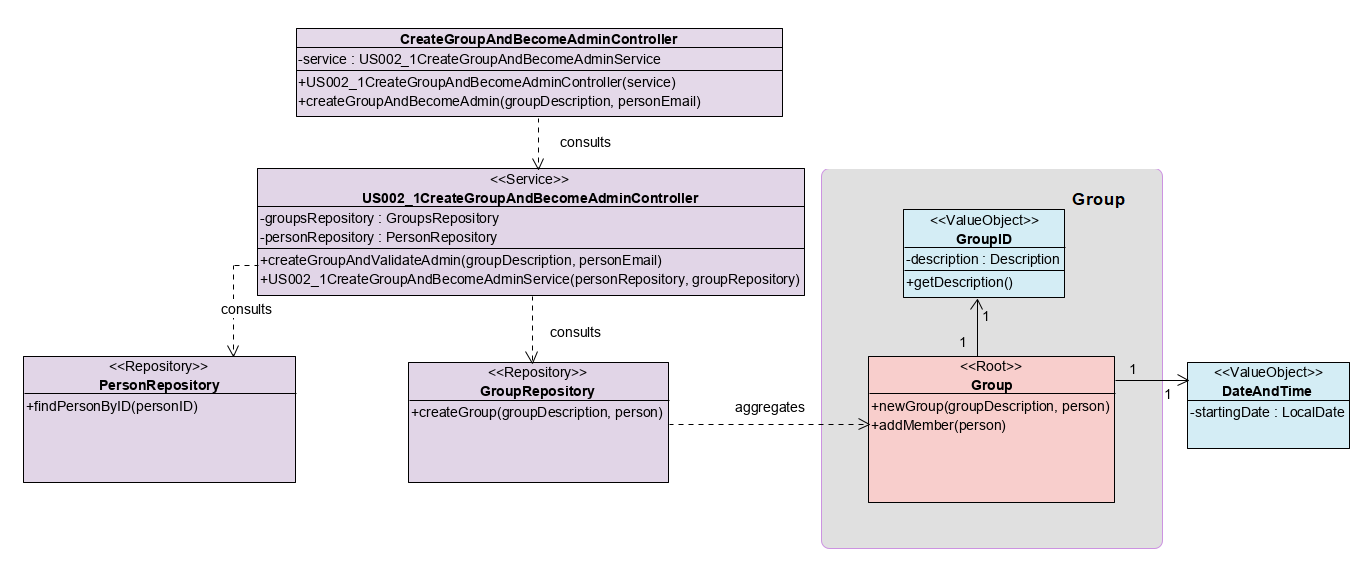
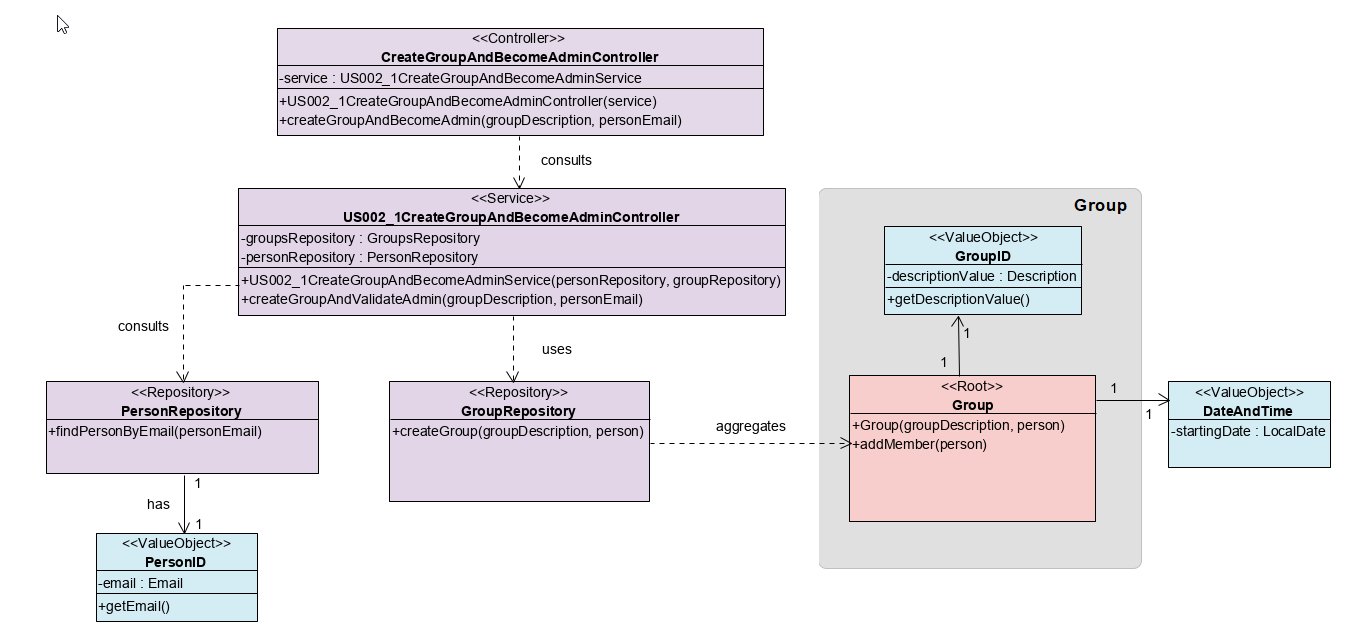
ref #718 update class & sequence diagrams

diff --git a/src/test/java/switch2019/project/controllers/US002_1CreateGroupAndBecomeAdminControllerTest.java b/src/test/java/switch2019/project/controllers/US002_1CreateGroupAndBecomeAdminControllerTest.java
@@ -17,6 +17,8 @@ import static org.junit.jupiter.api.Assertions.*;
 class US002_1CreateGroupAndBecomeAdminControllerTest {
 
     private static GroupsRepository groupsRepository;
+    private static PersonRepository personRepository;
+    private static US002_1CreateGroupAndBecomeAdminService service;
     private static US002_1CreateGroupAndBecomeAdminController controller;
 
 
@@ -28,13 +30,13 @@ class US002_1CreateGroupAndBecomeAdminControllerTest {
     @BeforeEach
     void setUpUniverse() {
         groupsRepository = new GroupsRepository();
-        PersonRepository personRepository = new PersonRepository();
+        personRepository = new PersonRepository();
 
         personRepository.createPerson("Alexandre", new DateAndTime(1996, 3, 4),
                 new Address("Porto"), new Address("Porto",
                         "Rua de Santana", "4465-740"), new Email("1234@isep.pt"));
 
-        US002_1CreateGroupAndBecomeAdminService service = new US002_1CreateGroupAndBecomeAdminService(groupsRepository, personRepository);
+        service = new US002_1CreateGroupAndBecomeAdminService(groupsRepository, personRepository);
         controller = new US002_1CreateGroupAndBecomeAdminController(service);
     }
 
@@ -57,30 +59,30 @@ class US002_1CreateGroupAndBecomeAdminControllerTest {
 
 
         //Act
-        boolean result = controller.createGroupAndBecomeAdmin(groupDescription, email);
+        boolean isGroupCreatedAndAdminSet = controller.createGroupAndBecomeAdmin(groupDescription, email);
         boolean isAdmin = groupsRepository.findGroupByDescription(new Description(
                 "Bashtards")).isGroupAdmin(personID);
 
         //Assert
-        assertTrue(result && isAdmin);
+        assertTrue(isGroupCreatedAndAdminSet && isAdmin);
     }
 
     @Test
-    @DisplayName("PersonID non existing")
-    void createGroupAndBecomeAdminNoPersonID() {
+    @DisplayName("Email non existing")
+    void createGroupAndBecomeAdminNoEmail() {
 
         //Arrange
         String groupDescription = "Bashtards";
-        String personID = "12345@isep.pt";
+        String email = "12345@isep.pt";
 
         //Act
         try {
-            controller.createGroupAndBecomeAdmin(groupDescription, personID);
+            controller.createGroupAndBecomeAdmin(groupDescription, email);
         }
 
         //Assert
         catch (IllegalArgumentException e) {
-            assertEquals("No person found with that ID.", e.getMessage());
+            assertEquals("No person found with that email.", e.getMessage());
         }
 
     }
@@ -91,12 +93,12 @@ class US002_1CreateGroupAndBecomeAdminControllerTest {
 
         //Arrange
         String groupDescription = "Bashtards";
-        String personID = "1234@isep.pt";
-        controller.createGroupAndBecomeAdmin(groupDescription, personID);
+        String email = "1234@isep.pt";
+        controller.createGroupAndBecomeAdmin(groupDescription, email);
 
         //Act
         try {
-           controller.createGroupAndBecomeAdmin(groupDescription, personID);
+           controller.createGroupAndBecomeAdmin(groupDescription, email);
         }
         catch (IllegalArgumentException ex) {
             assertEquals("This Group Description already exists.", ex.getMessage());

diff --git a/src/main/java/switch2019/project/services/US002_1CreateGroupAndBecomeAdminService.java b/src/main/java/switch2019/project/services/US002_1CreateGroupAndBecomeAdminService.java
@@ -30,9 +30,8 @@ public class US002_1CreateGroupAndBecomeAdminService {
     public boolean createGroupAndBecomeAdmin(String groupDescriptionString, String personEmail) {
 
         Description groupDescription = new Description(groupDescriptionString);
-        PersonID personID = new PersonID(new Email(personEmail));
 
-        Person person = personRepository.findPersonByID(personID);
+        Person person = personRepository.findPersonByEmail(new Email (personEmail));
 
         return groupsRepository.createGroup(groupDescription, person);
 

diff --git a/src/test/java/switch2019/project/services/US002_1CreateGroupAndBecomeAdminServiceTest.java b/src/test/java/switch2019/project/services/US002_1CreateGroupAndBecomeAdminServiceTest.java
@@ -68,7 +68,7 @@ class US002_1CreateGroupAndBecomeAdminServiceTest {
 
         //Assert
         catch (IllegalArgumentException e) {
-            assertEquals("No person found with that ID.", e.getMessage());
+            assertEquals("No person found with that email.", e.getMessage());
         }
     }
 
